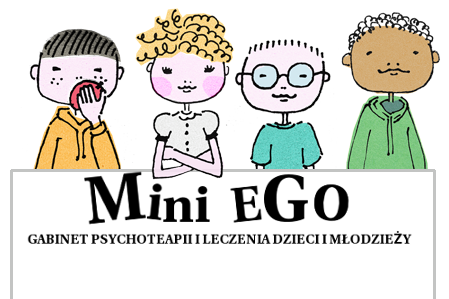
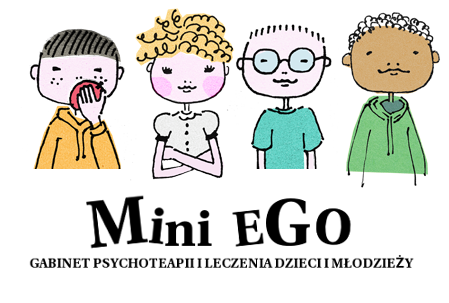
grafika do wersji z ramka css

diff --git a/miniego/ramka.html b/miniego/ramka.html
@@ -3,8 +3,9 @@
 <head>
     <meta charset="utf-8">
     <meta name="description" content="Strona WWW z Kursu HTML">
-    <link rel="stylesheet" type="text/css" href="css/reset.css">      
-    <link rel="stylesheet" type="text/css" href="css/moja-ramka.css">
+    <link rel="stylesheet" type="text/css" href="css/reset.css">
+    <link rel="stylesheet" type="text/css" href="css/moja-ramka.css">    
+    <!--<link rel="stylesheet" type="text/css" href="css/ramka.css">-->
     <link rel="stylesheet" type="text/css" href="css/menu.css"> 
     <title>Psychologia</title>
 </head>
@@ -17,28 +18,13 @@
 <div class="kontener_glowny">
     
 <div class="kontener_naglowek">     
-    <header>
-        <div class="kontener_menu">
-        <a class="menu_ikonka" href="#"></a>
-       
-            <nav class="menu">
-                <ul>
-                    <li><a href="#" class="pomaranczowy">O nas</a></li>
-                    <li><a href="#" class="ciemny_zolty">Diagnoza i leczenie psychiatryczne</a></li>
-                    <li><a href="#" class="zolty">Diagnoza psychologiczna</a></li>
-                     <li><a href="#" class="zielony">Terapie</a></li>
-                    <li><a href="#" class="niebieski">Galeria</a></li>
-                    <li><a href="#" class="fioletowy">Cennik</a></li>
-                    <li><a href="#" class="rozowy">Kontakt</a></li>
-                </ul>                
-            </nav>
-     </div>
-        </header>
+    <header>        
+    </header>
 </div>
     
 <div class="kontener_srodek">     
     <div class="kontener_tresci"> 
-       <section>
+        <section>
             
             <p>
             Lorem ipsum dolor sit amet, consectetur adipiscing elit. Cras consequat, quam ac lobortis vulputate, neque magna tempus dui, a ornare erat ipsum at ante. Sed vitae diam libero. Praesent vehicula libero eget facilisis luctus. Morbi luctus nulla in sem consectetur, quis vehicula arcu feugiat. Nulla cursus leo a magna tincidunt imperdiet. Pellentesque ornare quis eros id tincidunt. Ut fermentum pulvinar tortor, at dictum nisl molestie vel. Pellentesque habitant morbi tristique senectus et netus et malesuada fames ac turpis egestas. Maecenas ultrices cursus ipsum, ut rhoncus nibh efficitur non. Maecenas quis aliquam nisl, non ultrices nulla. Pellentesque porttitor est nec risus rutrum accumsan. Praesent sed lorem rhoncus, mattis felis posuere, cursus leo. Sed maximus libero arcu, vel lobortis libero laoreet quis.
@@ -65,3 +51,47 @@
 
 
 
+
+
+
+
+
+
+
+
+
+
+<!--
+
+       <div class="kontener_tresci">
+         
+ 
+  <section>
+    <article>
+        <hgroup>
+    "Neque porro quisquam est qui dolorem ipsum quia dolor sit amet, consectetur, adipisci velit..."
+"Nie ma nikogo, kto lubiłby ból dla samego bólu, szukał go tylko po to, by go poczuć, po prostu dlatego, że to ból..."
+</hgroup>
+     
+        <p>
+Lorem ipsum dolor sit amet, consectetur adipiscing elit. Cras consequat, quam ac lobortis vulputate, neque magna tempus dui, a ornare erat ipsum at ante. Sed vitae diam libero. Praesent vehicula libero eget facilisis luctus. Morbi luctus nulla in sem consectetur, quis vehicula arcu feugiat. Nulla cursus leo a magna tincidunt imperdiet. Pellentesque ornare quis eros id tincidunt. Ut fermentum pulvinar tortor, at dictum nisl molestie vel. Pellentesque habitant morbi tristique senectus et netus et malesuada fames ac turpis egestas. Maecenas ultrices cursus ipsum, ut rhoncus nibh efficitur non. Maecenas quis aliquam nisl, non ultrices nulla. Pellentesque porttitor est nec risus rutrum accumsan. Praesent sed lorem rhoncus, mattis felis posuere, cursus leo. Sed maximus libero arcu, vel lobortis libero laoreet quis.
+</p>
+        
+        <p>
+Suspendisse vitae libero ut purus semper faucibus. Vestibulum diam diam, malesuada nec mi nec, rhoncus convallis nunc. Curabitur eu convallis nibh. Aliquam convallis magna id ligula mollis, a commodo eros facilisis. Aenean iaculis ut elit id gravida. Quisque ligula nisi, ornare sed mi a, tempor posuere neque. Lorem ipsum dolor sit amet, consectetur adipiscing elit.
+</p>
+<p>
+Nam lacinia eget erat nec fermentum. Cras tempus massa sit amet lorem venenatis bibendum. Pellentesque ut porta quam, vitae imperdiet neque. Aenean nunc tortor, scelerisque eu arcu eu, pulvinar scelerisque mi. Nam ut consectetur diam. Vestibulum sem metus, venenatis ut magna sed, sagittis tempor nisi. Sed a ipsum vitae felis molestie finibus vitae eu lacus.
+</p>
+<p>
+
+Nullam pharetra ex ipsum, et vestibulum metus dapibus a. Etiam sed mollis lorem. Phasellus ex ex, tincidunt a turpis a, gravida laoreet purus. Pellentesque commodo malesuada dolor, ac pretium arcu. Maecenas faucibus ornare eleifend. Pellentesque nibh libero, sollicitudin id aliquam eu, sodales sed massa. Pellentesque tincidunt sagittis efficitur. Nam felis massa, lobortis quis lobortis a, auctor ac tellus. Vestibulum eget ligula at neque volutpat consectetur accumsan non magna. Phasellus malesuada, lorem id placerat varius, quam nulla mattis felis, vitae blandit tortor eros ut erat. Pellentesque felis arcu, iaculis sed massa quis, porta malesuada nisi. 
+    </p>
+
+
+    </article>
+    </section>            
+    
+    </div>
+
+-->

diff --git a/miniego/css/moja-ramka.css b/miniego/css/moja-ramka.css
@@ -6,18 +6,12 @@
 http://jsfiddle.net/wschwarz/e2ckdp2v/*/
 
 
-.circle {
-    width: 50px;
-    height: 50px;
+.ramka {
+    width: 1010px;  
     background: linear-gradient(to top, #3acfd5 0%, #3a4ed5 100%);
-    /*border-radius: 100%;*/
-    position: relative;
-    text-align: center;
-    padding: 20px;
-    box-sizing: border-box;
+    position: relative;    
 }
-.circle::before {
-    /*border-radius: 100%;*/
+.ramka::before {   
     content: '';
     background-image: linear-gradient(to bottom, #3acfd5 0%, #3a4ed5 100%);
     padding: 10px;
@@ -28,6 +22,7 @@ http://jsfiddle.net/wschwarz/e2ckdp2v/*/
     position:absolute;
     z-index:-1;
 }
+
 
 /*
 koniec
@@ -52,11 +47,13 @@ p{
 }
 
 .kontener_naglowek{
-    background: #ccc url(../assets/1024/naglowek.png)  no-repeat;
+    background-image: url(../assets/naglowek-bez-ramki.png);
+    background-repeat: no-repeat;
     background-position: top center;
     height: 435px;  
     /*Uwaga ustawiam kontekst pozycjonowania dla kontener_menu*/
     position:relative;
+    z-index:10;
 }
 
 .kontener_menu{   
@@ -64,28 +61,139 @@ p{
     position:absolute;
     margin-top:380px;
     margin-left:170px;
-    width:720px;     
-    /*background-color:red;*/
+    width:720px;         
     height: 50px;     
 }
 
 
-.kontener_srodek{
-  background-color:yellow;  
-    background-position: top center;
-    min-height: 18px;
-    padding:1rem;
+.kontener_srodek{      
+    border:1px dotted green;
+    margin-top:-228px;
+    margin-left:104px;
+    margin-bottom:50px;
+    padding:1rem;    
+    position:absolute;
+    width: 862px;    
+    background-color:white;
+    z-index:9;
     }
 
-.kontener_tresci{
-    background-color: red;   
+.kontener_tresci{   
+    border:1px solid greeen;
     margin:0 auto;
+    margin-top:200px;    
     width: 670px;    
  }
 
 
-.kontener_stopka{       
-    background: #ccc url(../assets/1024/stopka.png) no-repeat;    
-    background-position: top center;   
-    height: 51px;    
+
+
+section{
+    font-size: 1.6rem;
 }
+
+
+
+@media all and (max-width: 1024px) {
+   .kontener_glowny{
+    width:740px;
+    margin:0 auto;  
+}
+    
+    .kontener_naglowek{
+    background: #ccc url(../assets/768/naglowek.png) no-repeat;
+    background-position: top center;
+    height: 401px;
+ /*Uwaga ustawiam kontekst pozycjonowania dla kontener_menu*/
+    position:relative;
+}
+
+.kontener_menu{   
+    /*pozycjonowany wzgledem rodzica*/
+    position:absolute;
+    margin-top:330px;
+    margin-left:90px;
+    width:550px;     
+    /*background-color:red;*/
+    height: 50px;     
+}
+
+.kontener_srodek{
+    background: #ccc url(../assets/768/tresc.png) repeat-y;     
+    background-position: top center;
+    min-height: 20px;
+    padding:1rem;
+    }
+
+  .kontener_tresci{
+    /*background-color: yellow;   */
+    width: 580px;    
+ }
+
+.kontener_stopka{       
+    background: #ccc url(../assets/768/stopka.png) no-repeat;   
+    background-position: top center;   
+    
+}
+    
+  
+       
+@media all and (max-width: 768px) {
+.kontener_glowny{
+    width:450px;
+    margin:0 auto;  
+}
+    
+.kontener_naglowek{
+    background: #ccc url(../assets/480/naglowek.png) no-repeat;
+    background-position: top center;
+    height: 299px;
+}
+    
+.kontener_menu{
+         /*pozycjonowany wzgledem rodzica*/
+    position:absolute;
+    margin-top:260px;
+    margin-left:60px;
+    width:350px;     
+    /*background-color:red;*/
+    height: 50px;  
+    }
+
+.kontener_srodek{
+    background: #ccc url(../assets/480/tresc.png)repeat-y;     
+    background-position: top center;
+    min-height: 34px;
+    padding:1rem;
+    }
+
+  .kontener_tresci{
+   /* background-color: orange;    */
+    margin:0 auto;
+    width: 350px;    
+    }
+
+.kontener_stopka{       
+    background: #ccc url(../assets/480/stopka.png) no-repeat;    
+    background-position: top center;   
+    height: 35px;    
+}
+
+.menu_ikonka {
+    display:block;
+    background:#fbc262 url(../assets/480/menu.svg) center no-repeat;
+    padding: 1rem;    
+    height: 3.2rem;    
+    width: 3.2rem;
+    left: 0; 
+    
+}
+
+    .menu{
+        display: none;
+    }
+
+}
+
+
+
